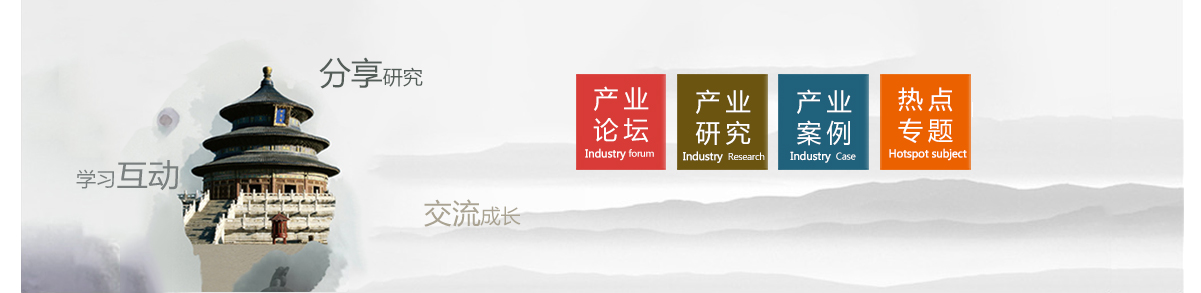
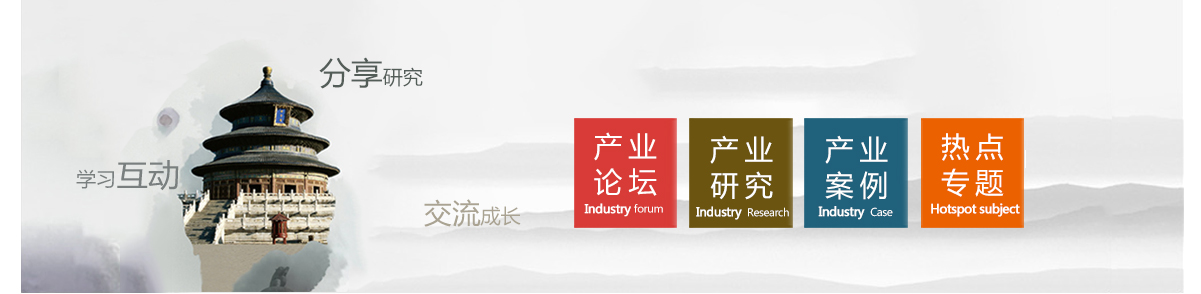
fix

diff --git a/industrial/profile.html b/industrial/profile.html
@@ -1,0 +1,51 @@
+<!DOCTYPE html>
+<html>
+  <head>
+    <meta charset="UTF-8">
+    <title>山西文化产业网 - 产业项目</title >
+    <link rel="stylesheet" href="../css/base.css" />  
+    <script type="text/javascript" src="../js/jquery.min.js"></script>
+    <script type="text/javascript" src="../js/topMenu.js"></script>    
+    <style>
+        .proh{line-height: 50px;font-size: 20px;color: #4d4d4d;font-weight: normal;border-bottom: 1px solid #2058c2;text-indent: 10px;}
+        .profile{padding: 30px 16px 90px;background: #f5f5f5;margin-top: 10px;}
+        .profile h1{font-weight: normal;font-size: 24px;color: #2e2e32;line-height: 54px;text-align: center;margin: 0 0 30px 0;}
+        .profile p{font-size: 18px;color: #2e2e32;line-height: 40px;text-indent: 2em;}
+    </style>
+  </head>
+<body>
+<div id="nav">
+    <div class="container">
+        <ul>
+            <li><a href="../index.html">首页</a></li>
+            <li><span>></span></li>
+            <li><a href="index.html">产业项目</a></li>
+            <li><span>></span></li>
+            <li><a href="#">产业项目概况</a></li>
+            <!-- <li><span>></span></li> -->
+            <!-- <li><a href="#">国际邮快件综合服务平台</a></li> -->
+        </ul>
+        <form action="">
+            <input type="text" placeholder="输入你要搜索的关键字" />
+            <input type="submit" value="搜索" />
+        </form>
+    </div>
+</div>
+<div id="content">
+    <div class="container clearfix">
+        <h5 class="proh">产业项目概况</h5>
+        <div class="profile">
+            <h1>山西文化产业项目服务平台简介</h1>
+            <p>金融服务、文化消费服务等功能，有效满足文化产业各类主文化产业项目是文化产业的载体与关键，是发展文化产业的重要抓手，决定着文化产业的规模与质量。为准确掌握项目信息，推动项目展示与交易，将文化资源优势通过项目转化为产业优势，山西省文化产业发展中心从项目扶持、产业发展的需求出发，组织建设了山西省文化产业项目服务平台。</p>
+            <p>平台目前已搭载项目展示、项目发布、项目申报、项目检索等系统，汇集海量优质文化产业项目，集智能检索、多维展示于一体，配套提供文化企业信用评级、文化产业项目体的使用需求。    </p>
+        </div>
+    </div>
+</div>
+
+</body>
+  <script>
+    $(function(){
+        $(".top_menuItem").eq(3).addClass("choose");
+    });
+  </script>
+</html>

diff --git a/index.html b/index.html
@@ -96,12 +96,12 @@
 					<div><img src="images/culpro3.jpg" alt=""></div>
 				</div>
 			</div>
-			<img src="images/3.jpg" usemap="#Map3" style="margin-top: 20px;width: 100%;" />
-	        <map name="Map3">
-	          <area shape="rect" coords="576,74,666,171" href="news/show.html">
-	          <area shape="rect" coords="676,74,768,170" href="#">
-	          <area shape="rect" coords="777,73,868,170" href="#">
-	          <area shape="rect" coords="879,75,972,171" href="news/level32.html">
+			<img src="images/3.jpg" usemap="#Map" style="margin-top: 20px;width: 100%;" />
+	        <map name="Map">
+	          <area shape="rect" coords="575,119,678,228" href="news/show.html">
+	          <area shape="rect" coords="690,118,794,228" href="#">
+	          <area shape="rect" coords="804,118,908,228" href="#">
+	          <area shape="rect" coords="920,119,1025,228" href="news/level32.html">
 	        </map>
 		</div>
 

diff --git a/finser/index.html b/finser/index.html
@@ -38,7 +38,7 @@
 			<div class="container clearfix">
 				<div class="finan_l">
 					<h2>企业诚信评价<a href="comment.html" class="apply">申请</a> </h2>
-					<p class="explain"></p>
+					<!-- <p class="explain"></p> -->
 					<ul class="finlul">
 						<li>
 							<div class="star_enterprise">
@@ -200,8 +200,8 @@
 						<P>山西省文化旅游体育产业投资基金</P>
 					</a>
 					<a href="#">
-						<div class="fund"><img src="../images/jijin.jpg" alt=""></div>
-						<P>山西省文化旅游体育产业投资基金</P>
+						<div class="fund"><img src="../images/jijin1.jpg" alt=""></div>
+						<P>山西省国金聚鑫投资管理有限公司</P>
 					</a>
 				</div>
 			</div>

diff --git a/news/pic.html b/news/pic.html
@@ -62,12 +62,12 @@
 			    <!-- 如果需要滚动条 -->
 			    <!-- <div class="swiper-scrollbar"></div> -->
 			</div>
-			<div class="fenxiang">
-				<span>分享：</span>	
+			<div class="fenxiang" style="height: 10px;">
+				<!-- <span>分享：</span>	
 				<a href="#"><img src="../img/weibo.png" alt=""></a>
 				<a href="#"><img src="../img/weixin.png" alt=""></a>
 				<a href="#"><img src="../img/douban.png" alt=""></a>
-				<a href="#"><img src="../img/doudou.png" alt=""></a>
+				<a href="#"><img src="../img/doudou.png" alt=""></a> -->
 			</div>
 			<div class="pic-title">
 				<h5>新闻图集</h5>

diff --git a/css/base.css b/css/base.css
@@ -228,7 +228,7 @@ input,button,select,textarea{outline:none}/*取消聚焦*/
 .menu_Zx tr:first-child td{border-top: none;}
 
 
-.culture-product{border: 1px solid #ccc;padding: 30px 20px 10px;}
+.culture-product{border: 1px solid #ccc;padding: 30px 20px 10px;margin-top: 20px;}
 .culture-product h5{border-bottom: 1px solid #2058c2;padding: 0 13px 10px;}
 .culture-product h5 a{float: right;font-size: 16px;color: #333;line-height: 56px;}
 .culpro-container{width: 817px;height: 598px;margin: 20px 0 0;float: left;}

diff --git a/finser/comment.html b/finser/comment.html
@@ -28,7 +28,7 @@
             <li><span>></span></li>
             <li><a href="index.html">金融服务</a></li>
             <li><span>></span></li>
-            <li><a href="#">评价</a></li>
+            <li><a href="#">申请</a></li>
         </ul>
     </div>
 </div>

diff --git a/js/topMenu.js b/js/topMenu.js
@@ -113,7 +113,7 @@ $(function(){
 								'<tbody>'+
 									'<tr>'+
 										'<td>'+
-											'<a href="#">平台概况</a>'+
+											'<a href="/culture_industry/industrial/profile.html">平台概况</a>'+
 										'</td>'+
 									'</tr>'+
 									'<tr>'+

diff --git a/news/recommend.html b/news/recommend.html
@@ -34,7 +34,7 @@
 	<div id="content">
 		<div class="container">
 			<div class="recommend">
-				<h5>优秀文化企业推荐</h5>
+				<h5>企业推荐</h5>
 				<ul class="clearfix">
 					<li>
 						<a href="#"><img src="../images/news/recommend1.png" alt=""></a>
